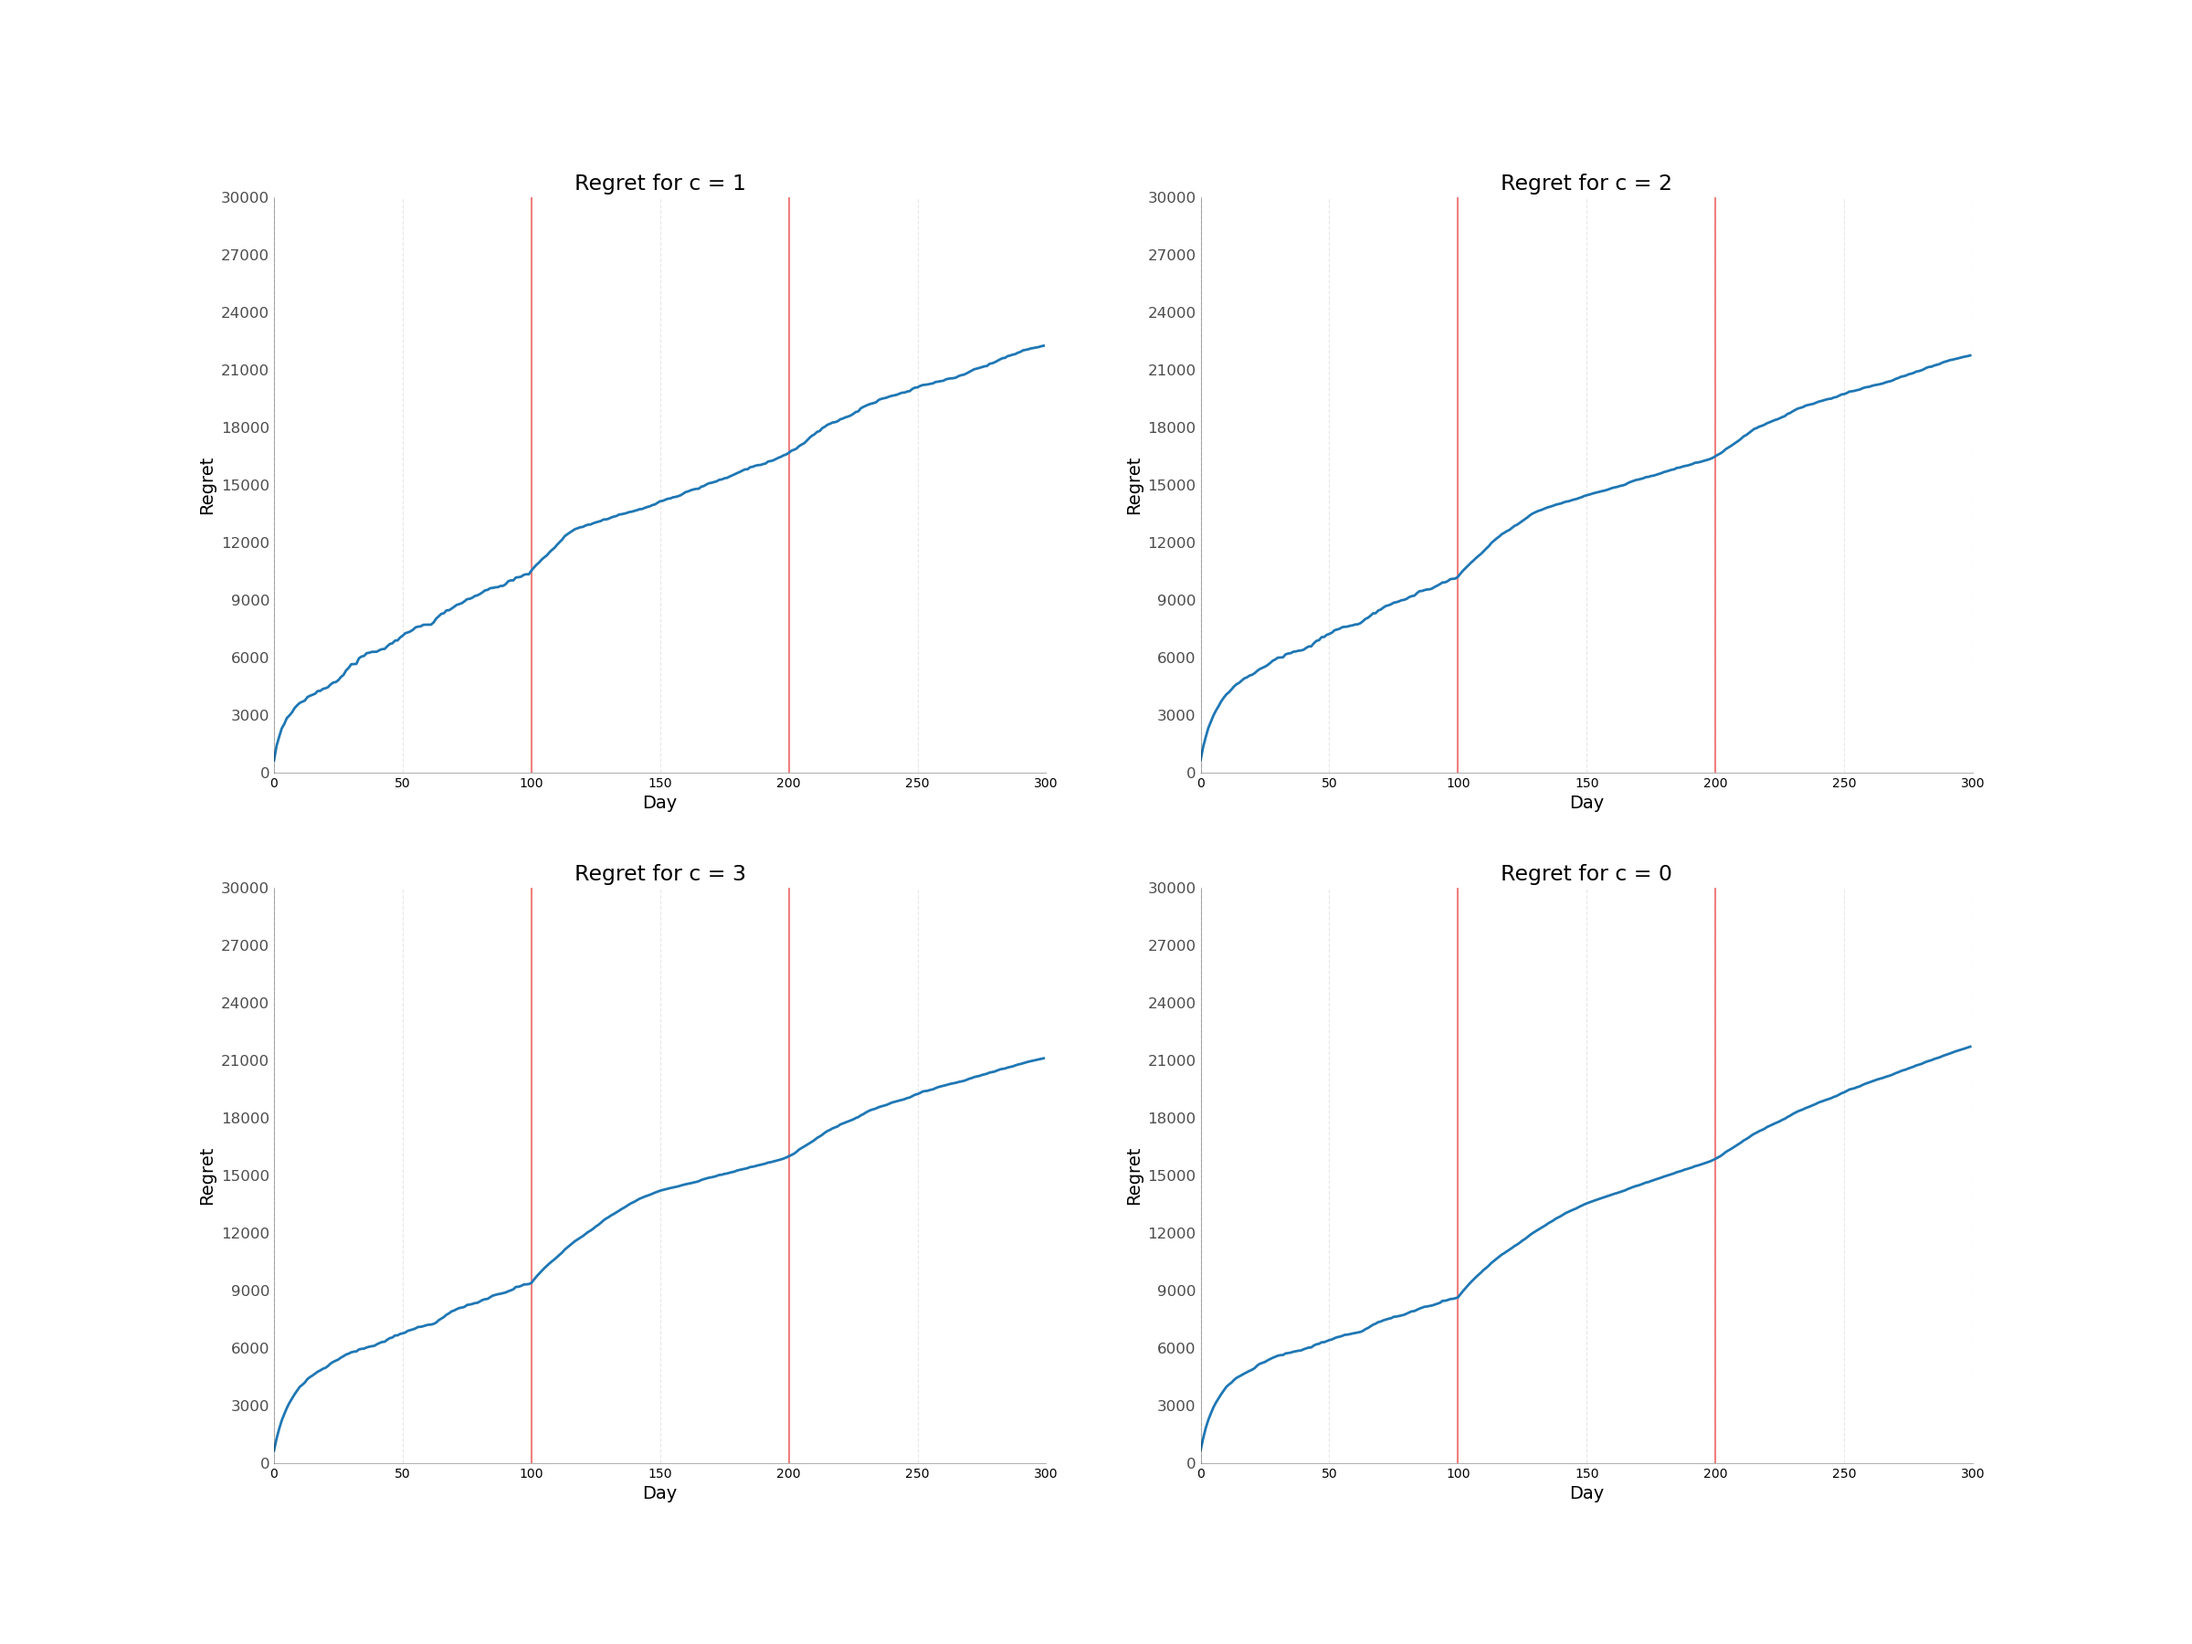
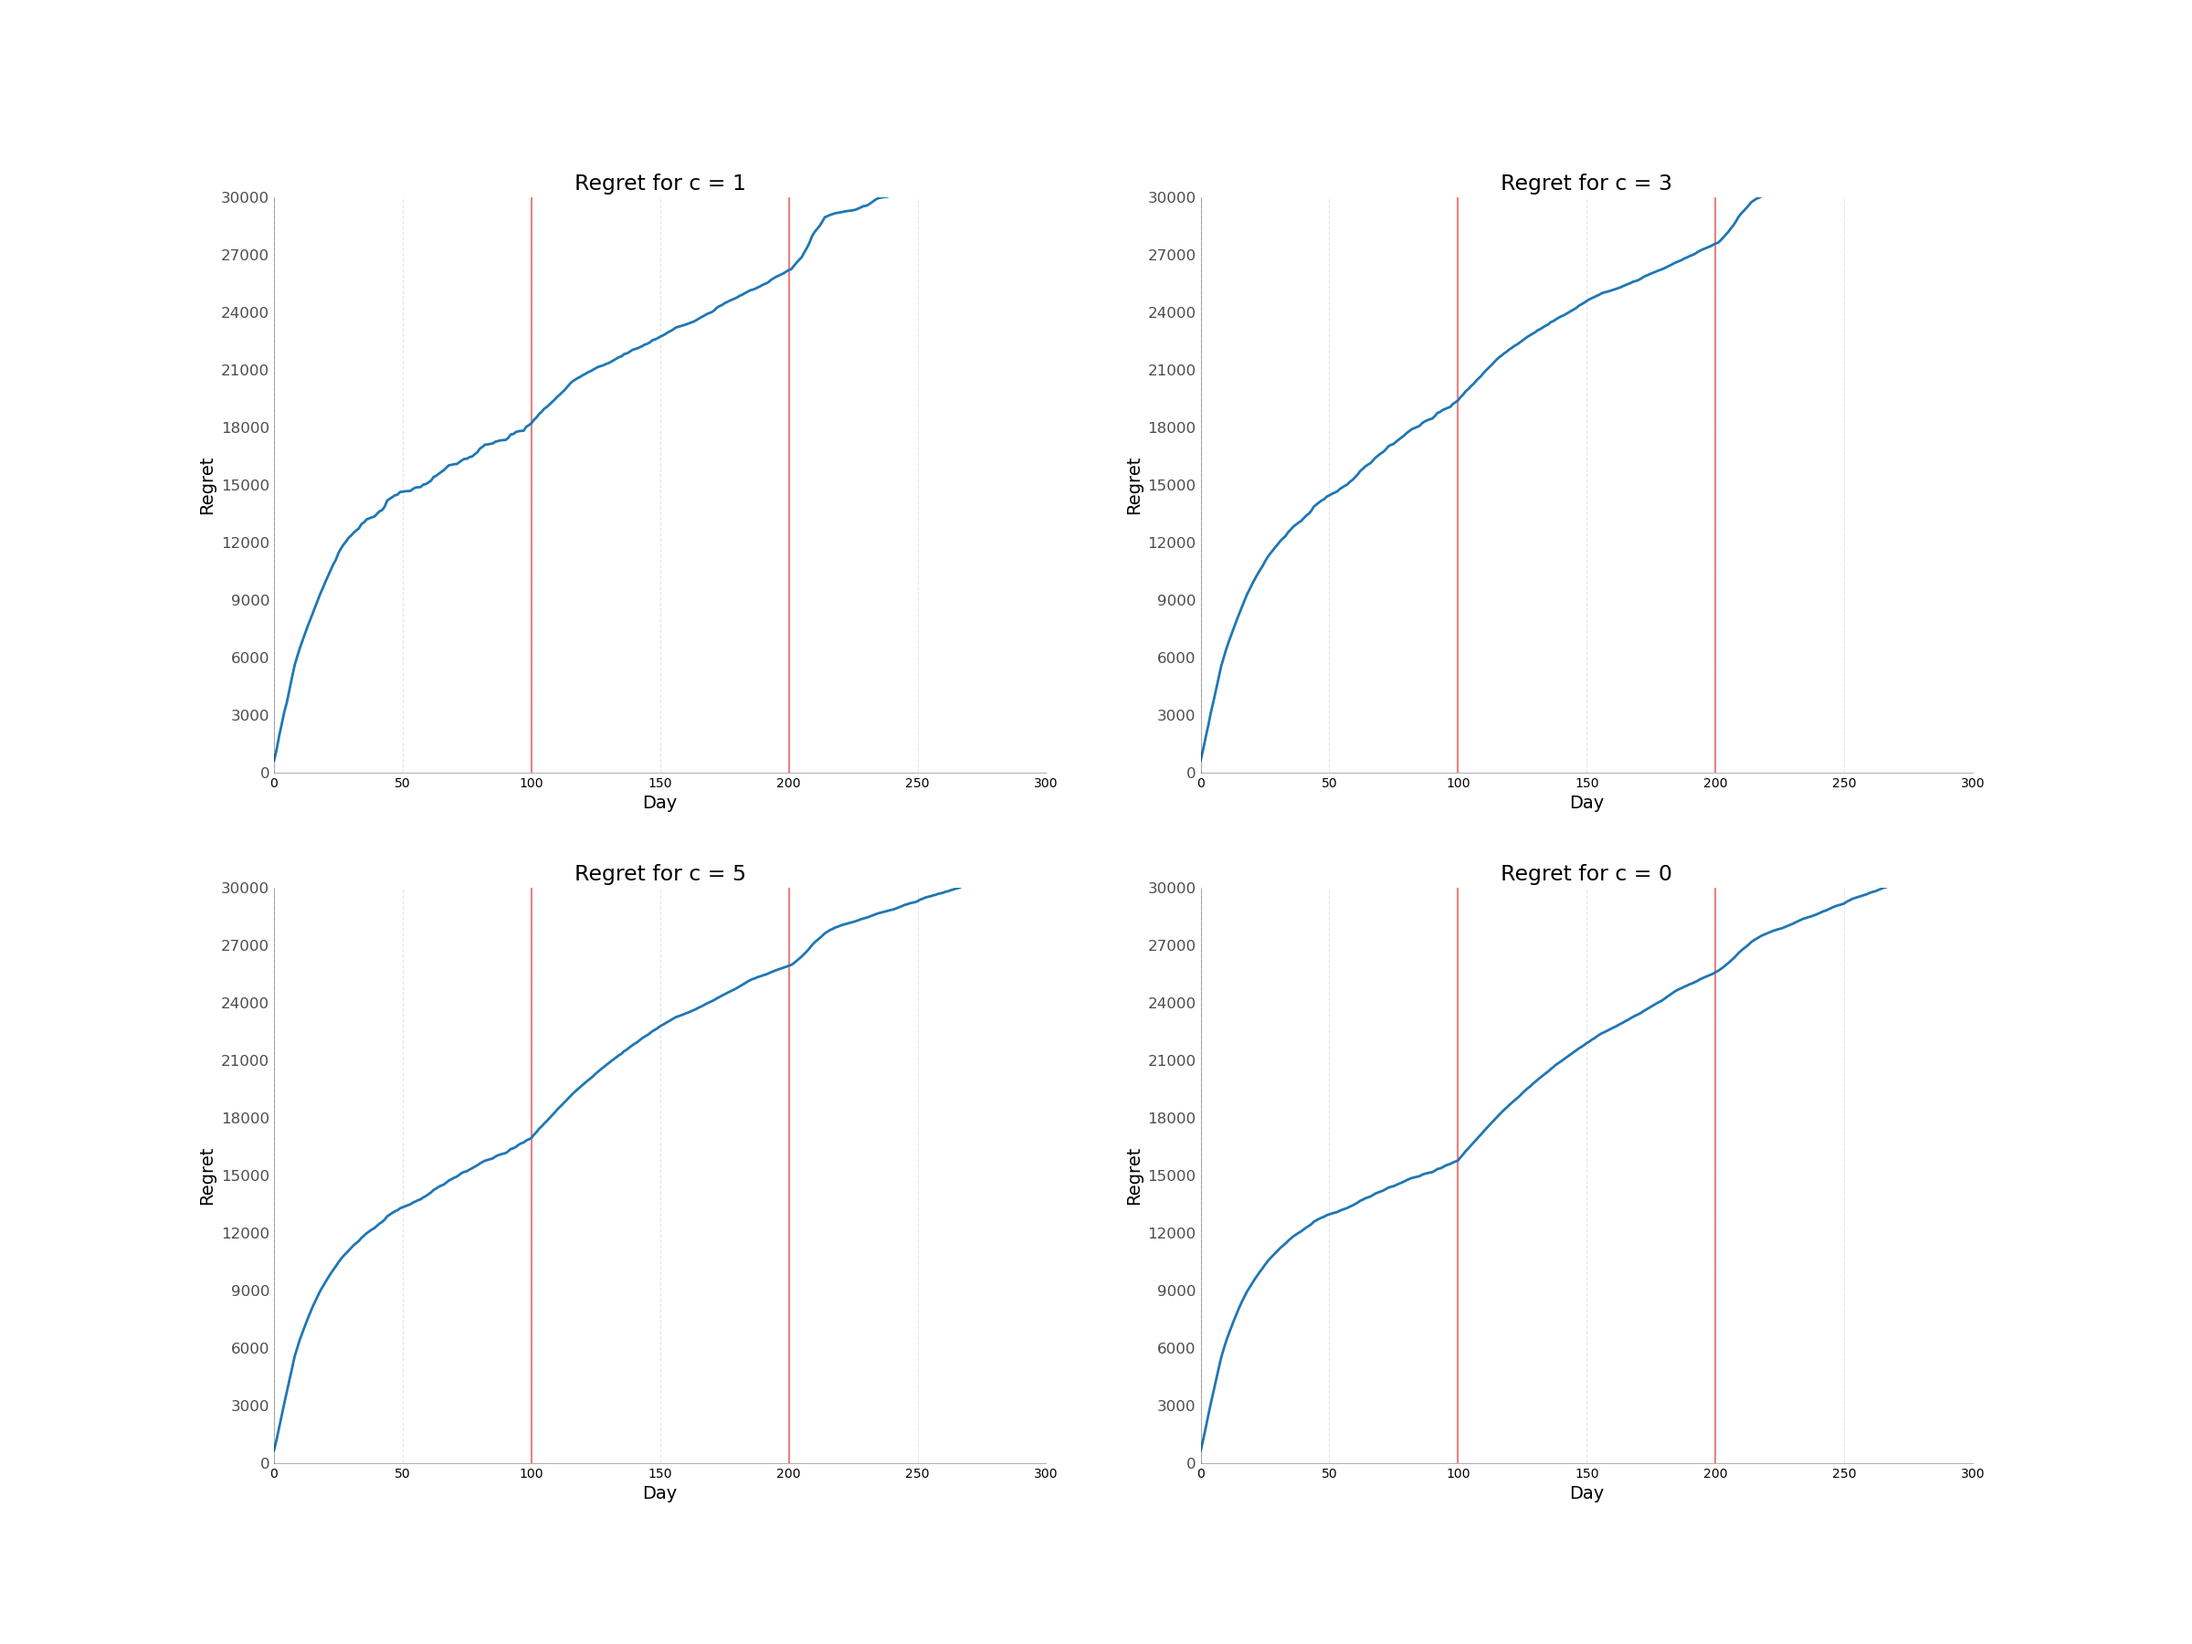
- Added normalization in ch. 3 - Moved computation of ideal arm outside of main loop in ch. 3

Changed region(s): [[0.125, 0.4044, 0.1562, 0.4356]]

diff --git a/3. SW-GPTS Learner/experiment.py b/3. SW-GPTS Learner/experiment.py
@@ -7,8 +7,27 @@ import math
 import numpy as np
 from matplotlib import pyplot as plt
 
+
+def compute_ideal(scenarios):
+    # Compute the real value of the tru function
+    real_values = []
+    for scenario in scenarios:
+        real_values.append(scenario.phase_values[:number_of_budgets])
+
+    # FIND IDEAL ARMS (to compute regret)
+    # Given the real value of the true function, find the ideal combination of arms
+    arms = ideal_optimizer.optimize(real_values)
+
+    # Compute the ideal optimal result
+    result = 0
+    for index, scenario in enumerate(scenarios):
+        result += scenario.phase_values[arms[index]]
+
+    return arms, result
+
+
 number_of_experiments = 5
-window_coefficients = [1, 2, 3, 0]
+window_coefficients = [1, 3, 5, 0]
 
 # The budget cap and the possible daily budget that can be set
 budget_cap = 27000
@@ -17,7 +36,7 @@ daily_budgets = np.linspace(5000, budget_cap, endpoint=True, num=45).astype(int)
 # The number of possible budgets that can be allocated to each subcampaign
 number_of_budgets = 11
 
-time_horizon = 300
+time_horizon = 150
 phase_duration = int(time_horizon / 3)
 
 regret = []
@@ -33,7 +52,7 @@ for i in range(0, len(window_coefficients)):
     for e in range(0, number_of_experiments):
 
         print('\n')
-        print('Starting experiment', e + 1)
+        print('Starting experiment', e + 1, '(c=', window_coefficients[i], ')')
 
         scenarios = [ThreePhasesScenario(daily_budgets=daily_budgets,
                                          campaign=0,
@@ -59,29 +78,24 @@ for i in range(0, len(window_coefficients)):
         optimal_rewards_per_round = np.zeros(time_horizon)
         ideal_rewards_per_round = np.zeros(time_horizon)
 
+        ideal_arms, ideal_result = compute_ideal(scenarios)
+
         for t in tqdm(range(0, time_horizon)):
+
+            # The ideal result obtainable at time t
+            if t % phase_duration == 1:
+                ideal_arms, ideal_result = compute_ideal(scenarios)
 
             # Sample the Gaussian Process for each subcampaign
             sampled_values = []
             for subcampaign in subcampaigns:
                 sampled_values.append(subcampaign.sample_values())
 
-            # Compute the real value of the tru function
-            real_values = []
-            for scenario in scenarios:
-                real_values.append(scenario.phase_values[:number_of_budgets])
-
             # FIND OPTIMAL ARMS
             # Find the best combination of arms to play at time t based on the sampling of the Gaussian Processes
             optimal_arms = optimizer.optimize(sampled_values)
             # The optimal result obtainable at time t by playing the optimal arms
             optimal_result = 0
-
-            # FIND IDEAL ARMS (to compute regret)
-            # Given the real value of the true function, find the ideal combination of arms
-            ideal_arms = ideal_optimizer.optimize(real_values)
-            # The ideal result obtainable at time t
-            ideal_result = 0
 
             for sub_index in range(0, len(subcampaigns)):
                 # Sample the true function to get a reward for the played arm
@@ -91,15 +105,13 @@ for i in range(0, len(window_coefficients)):
                 # Update the model based on the result of the played arm
                 subcampaigns[sub_index].update(optimal_arms[sub_index], reward)
 
-                # Compute the ideal optimal result
-                ideal_result += scenarios[sub_index].phase_values[ideal_arms[sub_index]]
-
                 # Advance the time of the scenario and eventually trigger a new phase
                 scenarios[sub_index].advance_time()
 
             optimal_rewards_per_round[t] = optimal_result
             ideal_rewards_per_round[t] = ideal_result
-            # print("[", t, "]Optimal solution:", optimal_arms, " (", ideal_arms, ")",
+            # print("\n",
+            #       "[", t, "]Optimal solution:", optimal_arms, "(", ideal_arms, ")",
             #       "with a result of: ", round(optimal_result, 2), " (", round(ideal_result, 2), ").")
 
         regret.append(ideal_rewards_per_round - optimal_rewards_per_round)
@@ -117,8 +129,8 @@ for i in range(0, len(window_coefficients)):
     ax[int(i/2), i % 2].set_ylabel("Regret", fontsize=14)
 
     ax[int(i/2), i % 2].tick_params(length=0)
-    ax[int(i/2), i % 2].set_yticks(np.linspace(0, 30000, 11))
-    ax[int(i/2), i % 2].set_yticklabels(np.linspace(0, 30000, 11).astype(np.int64), fontsize=12, alpha=0.7)
+    ax[int(i/2), i % 2].set_yticks(np.linspace(0, 50000, 11))
+    ax[int(i/2), i % 2].set_yticklabels(np.linspace(0, 50000, 11).astype(np.int64), fontsize=12, alpha=0.7)
 
     ax[int(i/2), i % 2].spines['right'].set_alpha(0)
     ax[int(i/2), i % 2].spines['left'].set_alpha(0.3)

diff --git a/3. SW-GPTS Learner/SW_GPTS_Learner.py b/3. SW-GPTS Learner/SW_GPTS_Learner.py
@@ -2,27 +2,32 @@ import numpy as np
 from matplotlib import pyplot as plt
 
 from sklearn.gaussian_process import GaussianProcessRegressor
-from sklearn.gaussian_process.kernels import RBF, ConstantKernel as C
+from sklearn.gaussian_process.kernels import Matern, WhiteKernel, RBF, ConstantKernel as C
 
 
 class SW_GPTS_Learner:
-    
+
     def __init__(self, arms, sigma=5, window_length=0):
         self.arms = arms
         self.n_arms = len(arms)
         self.means = np.zeros(self.n_arms)
-        self.sigmas = np.ones(self.n_arms)*sigma
+        self.sigmas = np.ones(self.n_arms) * sigma
 
         self.pulled_arms = np.array([])
         self.collected_rewards = np.array([])
 
         self.window_length = window_length
 
-        alpha = 10.0
-        kernel = C(1.0, (1e-5, 1e5)) * RBF(1.0, (1e-5, 1e5))
+        alpha = 1.5
+
+        theta = 1
+        l = 1
+
+        kernel = C(theta, (1e-5, 1e5)) * RBF(l, (1e-10, 1e10))
+
         self.gp = GaussianProcessRegressor(kernel=kernel,
-                                           alpha=alpha**2,
-                                           normalize_y=False,
+                                           alpha=alpha ** 2,
+                                           normalize_y=True,
                                            n_restarts_optimizer=10)
 
     def sample_values(self):
@@ -42,7 +47,7 @@ class SW_GPTS_Learner:
         arm_index (int): the index of the arm that has been pulled
         reward (float): the reward received by pulling the arm
         """
-        self.pulled_arms = np.append(self.pulled_arms, self.arms[arm_index])
+        self.pulled_arms = np.append(self.pulled_arms, arm_index)
         self.collected_rewards = np.append(self.collected_rewards, reward)
 
         if len(self.pulled_arms) > self.window_length:
@@ -56,8 +61,11 @@ class SW_GPTS_Learner:
         x = np.atleast_2d(self.pulled_arms).T
         y = self.collected_rewards
 
+        if len(y) == 1:
+            return
+
         self.gp.fit(x, y)
-        self.means, self.sigmas = self.gp.predict(np.atleast_2d(self.arms).T, return_std=True)
+        self.means = self.gp.predict(np.array(list(np.ndindex(len(self.arms)))))
         self.sigmas = np.maximum(self.sigmas, 1e-2)
 
     def update(self, arm_index, reward):
@@ -71,24 +79,24 @@ class SW_GPTS_Learner:
         """
         self.update_observations(arm_index, reward)
         self.update_model()
-        
+
     def pull_arm(self):
         """
         Choose which arm to pull based on the result of a sampling of the gaussian process
-        
+
         Returns:
         (int): the index of the arm that maximizes the observation
         """
         sampled_values = np.random.normal(self.means, self.sigmas)
         return np.argmax(sampled_values)
-    
+
     # FOR TESTING PURPOSES
     def plot(self, ax, function):
         ax.plot(self.arms, function(self.arms))
-        
+
         ax.plot(self.pulled_arms, self.collected_rewards, 'ro')
-        
+
         ax.plot(self.arms, self.means)
-        
+
     def predict(self, point):
         return self.gp.predict([[point]])
